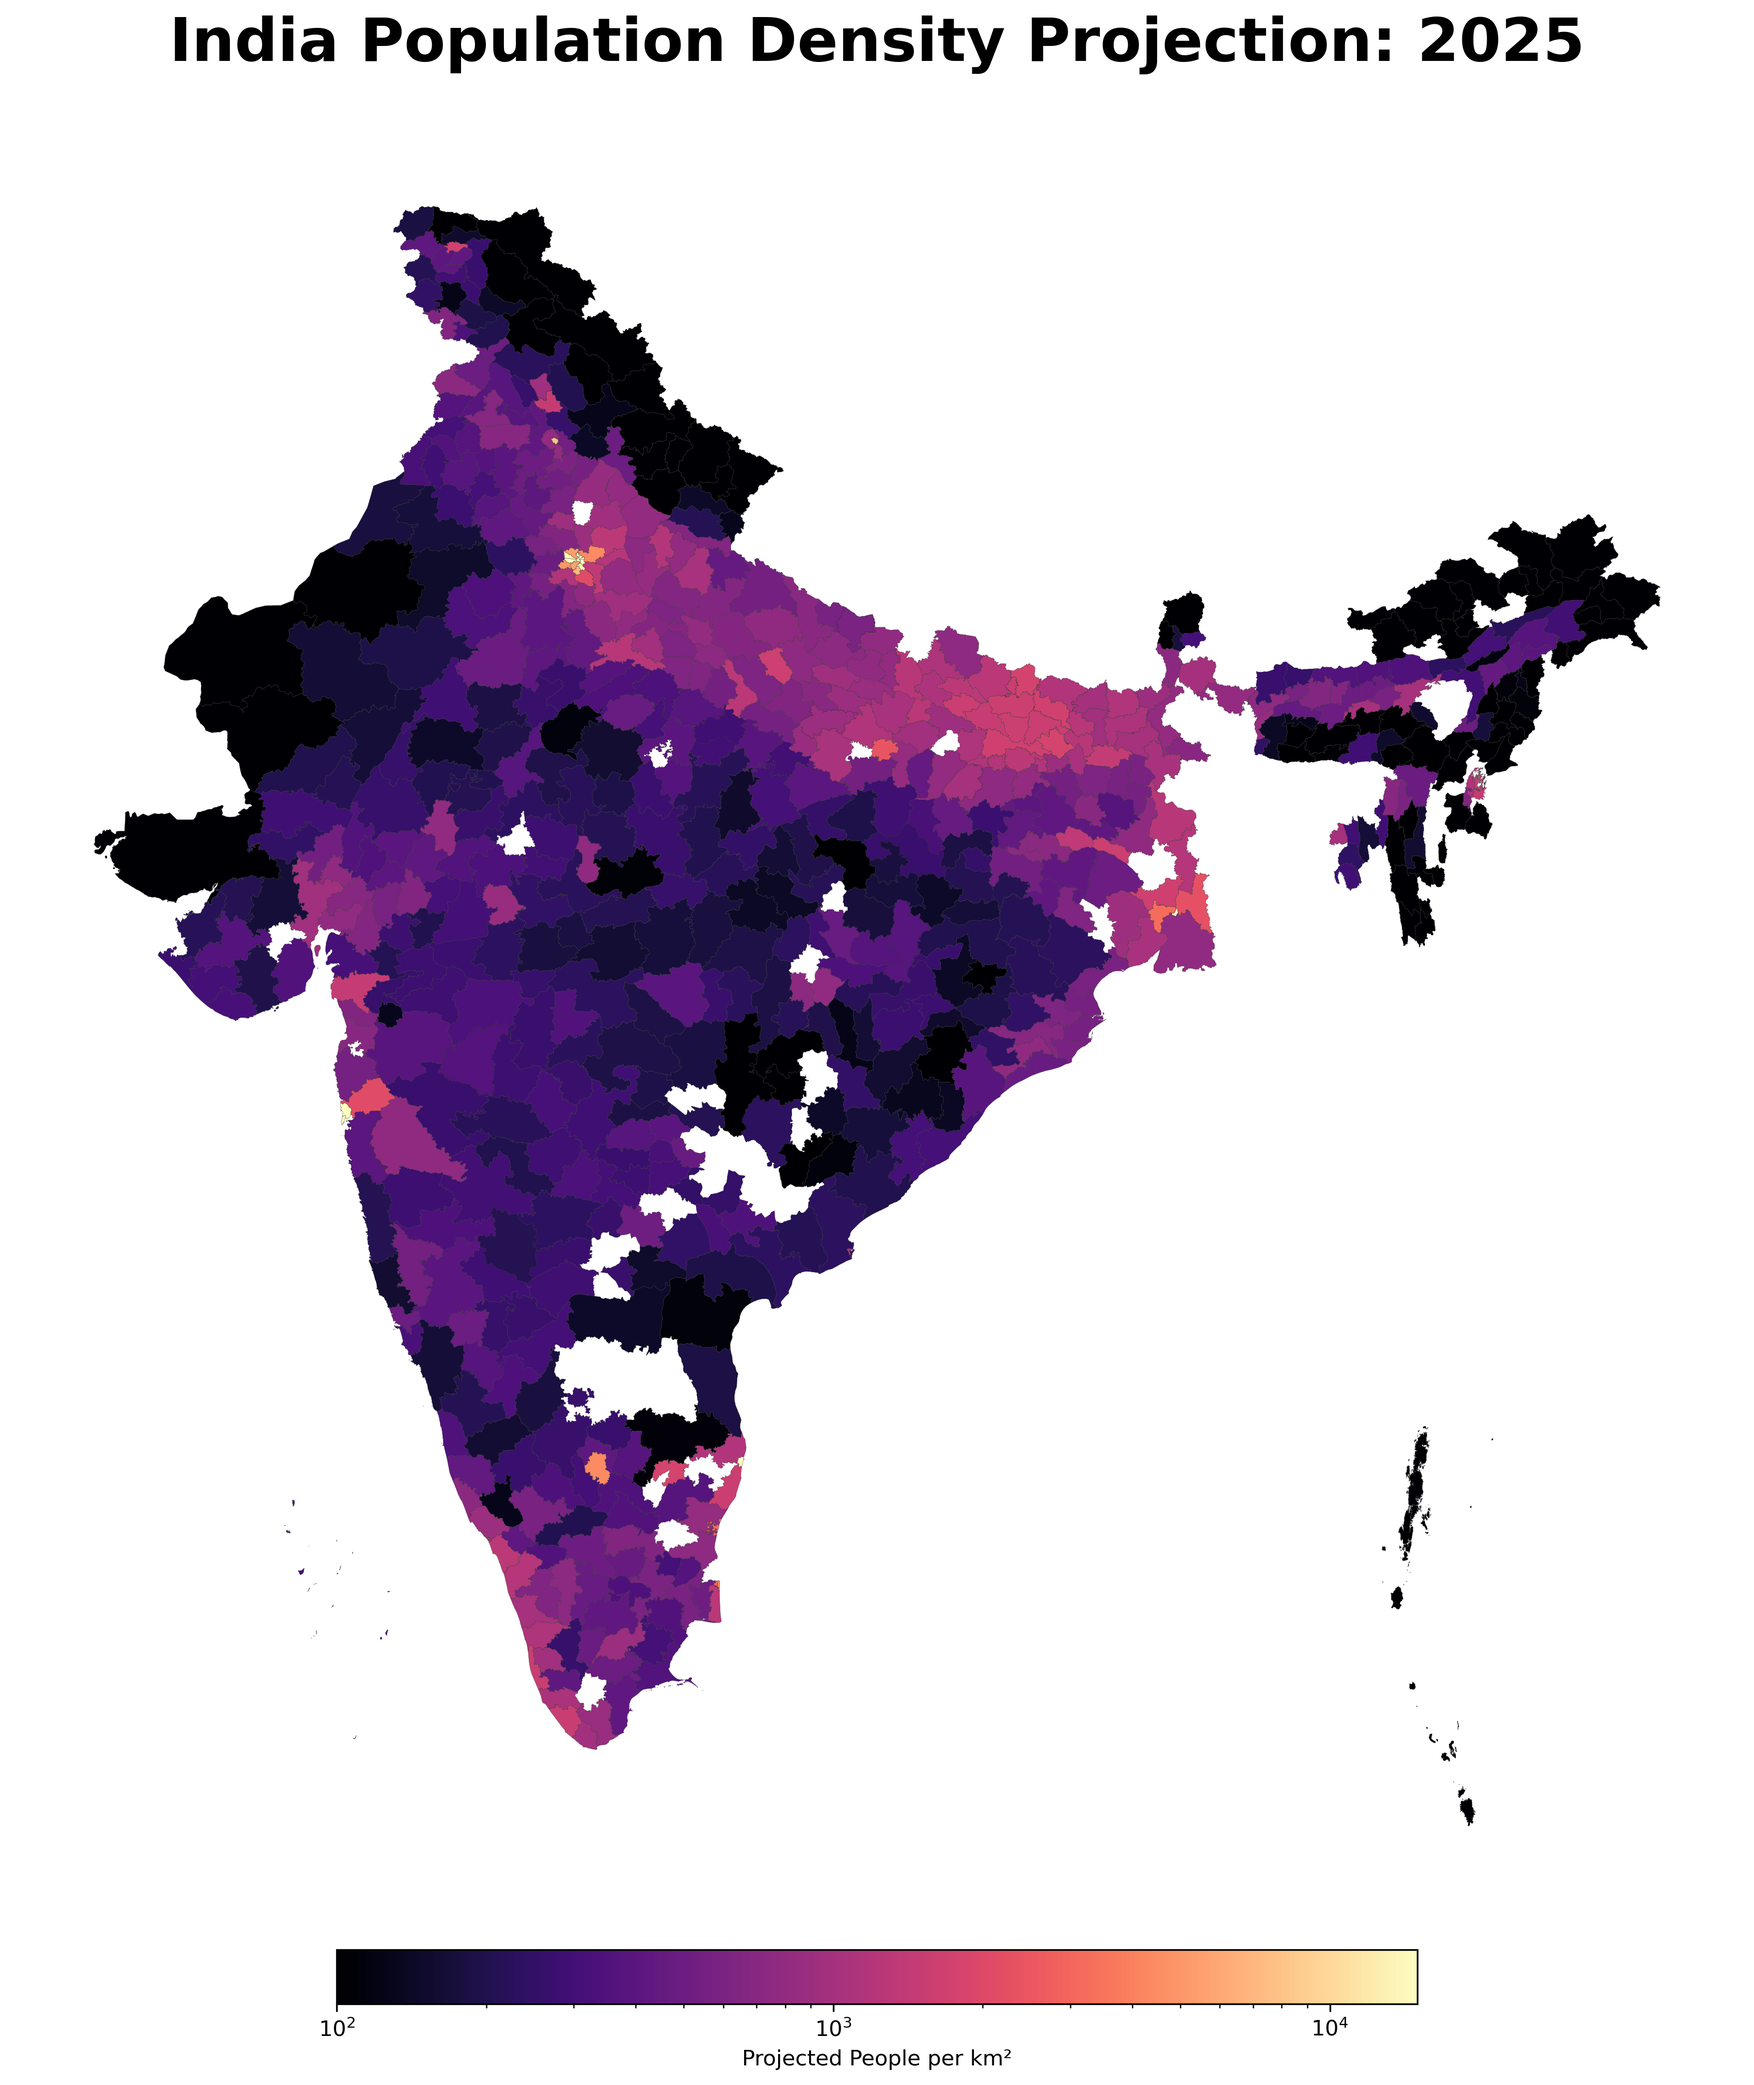
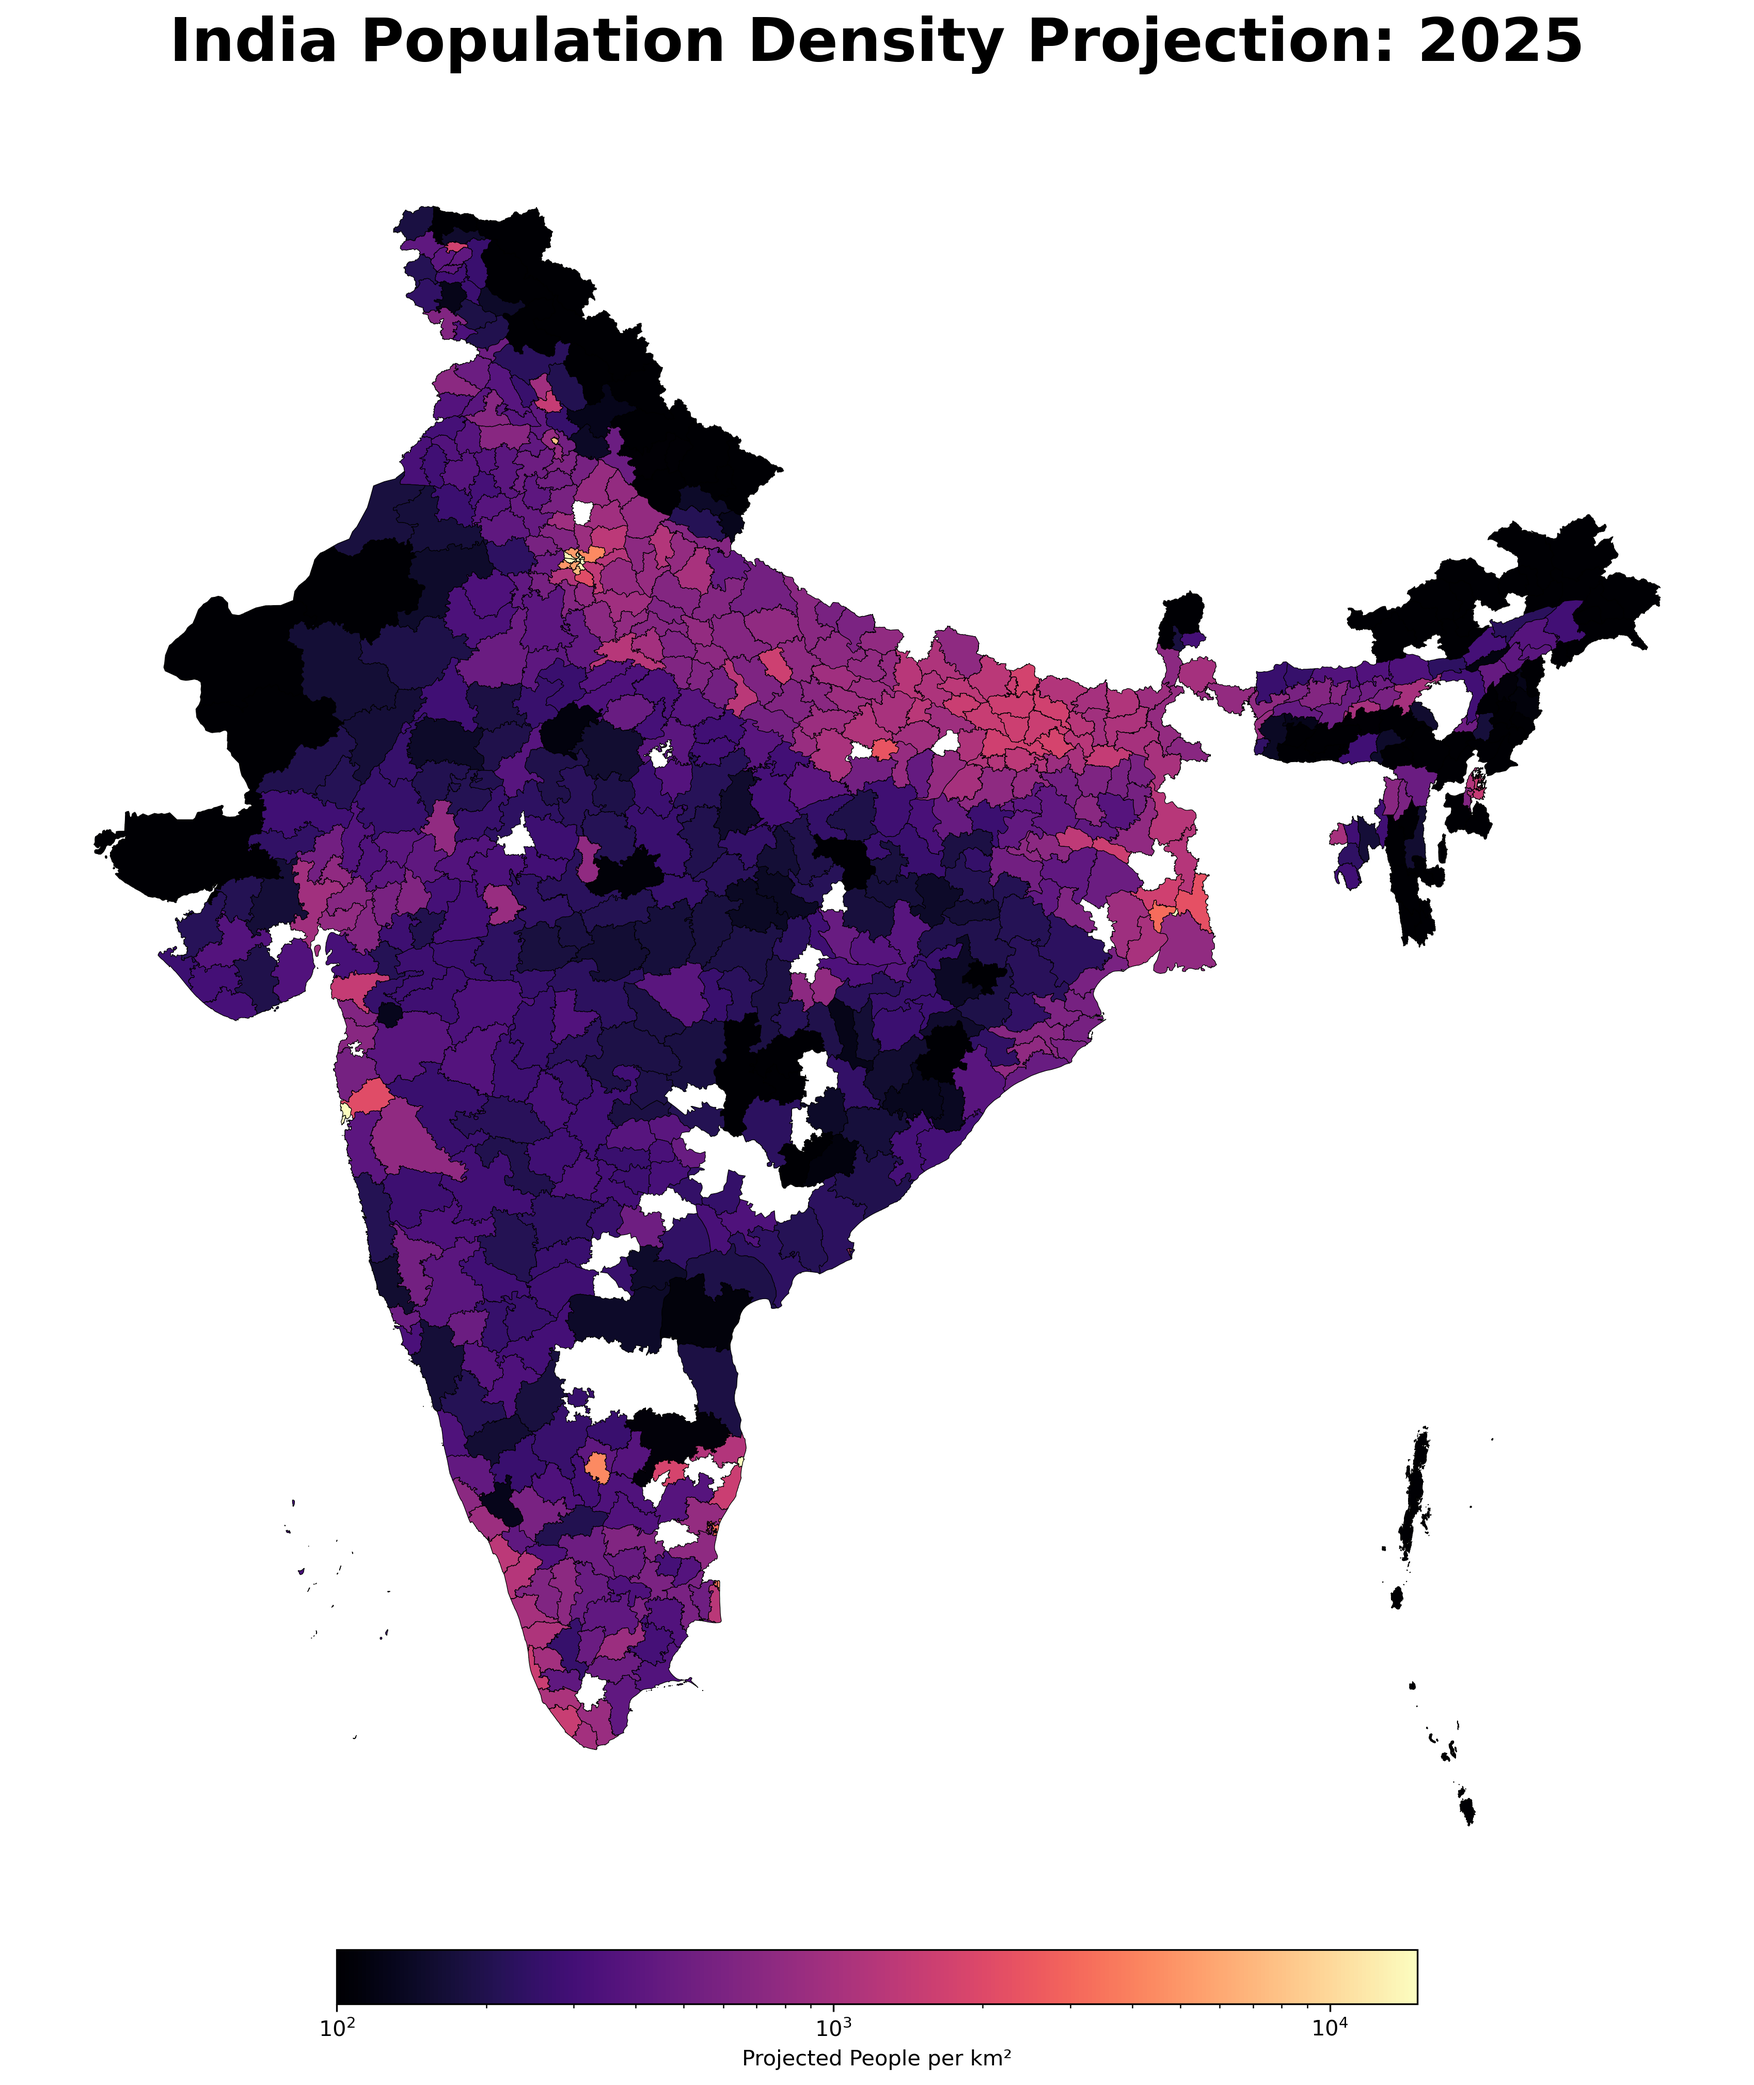
Enhance teaser: Increase administrative boundary visibility (linewidth 0.3)

diff --git a/scripts/population_dynamics_analyzer.py b/scripts/population_dynamics_analyzer.py
@@ -75,7 +75,7 @@ def generate_advanced_dynamics():
     master.plot(column='density_2025', ax=ax, cmap='magma', norm=LogNorm(vmin=100, vmax=15000),
                 legend=True, 
                 legend_kwds={'label': "Projected People per km²", 'orientation': "horizontal", 'pad': 0.02, 'shrink': 0.6},
-                edgecolor='#333333', linewidth=0.1)
+                edgecolor='black', linewidth=0.3)
     ax.set_title("India Population Density Projection: 2025", fontsize=28, fontweight='bold', pad=30)
     ax.axis('off')
     plt.savefig(os.path.join(docs_dir, "teaser_density_2025.png"), dpi=300, bbox_inches='tight')
